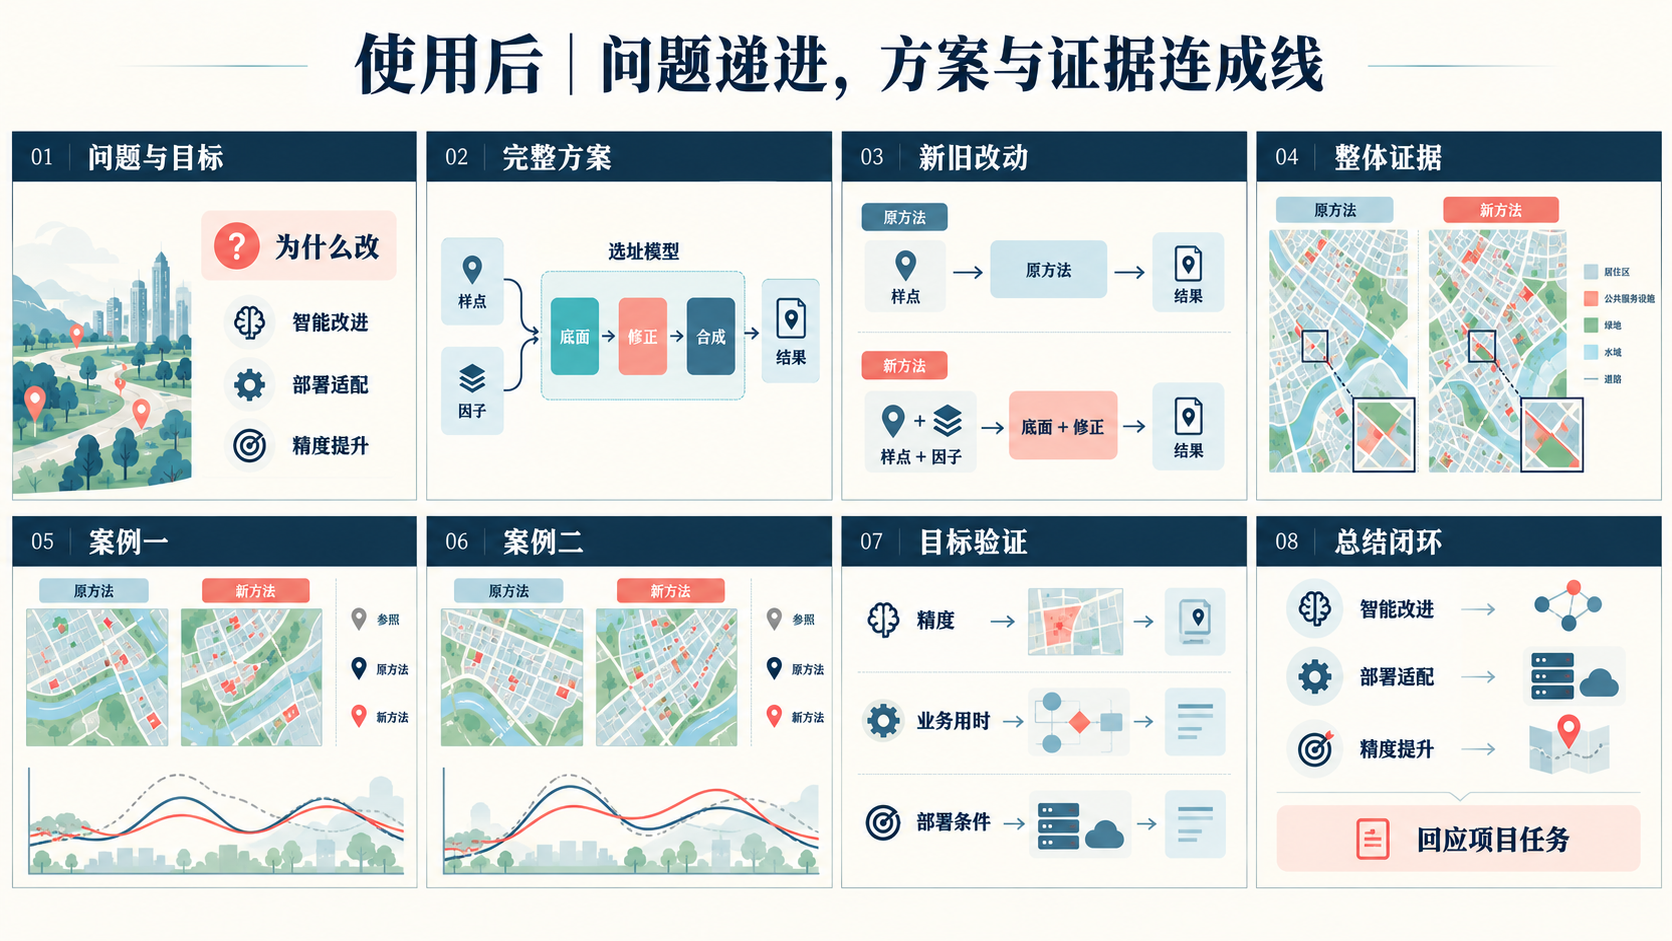
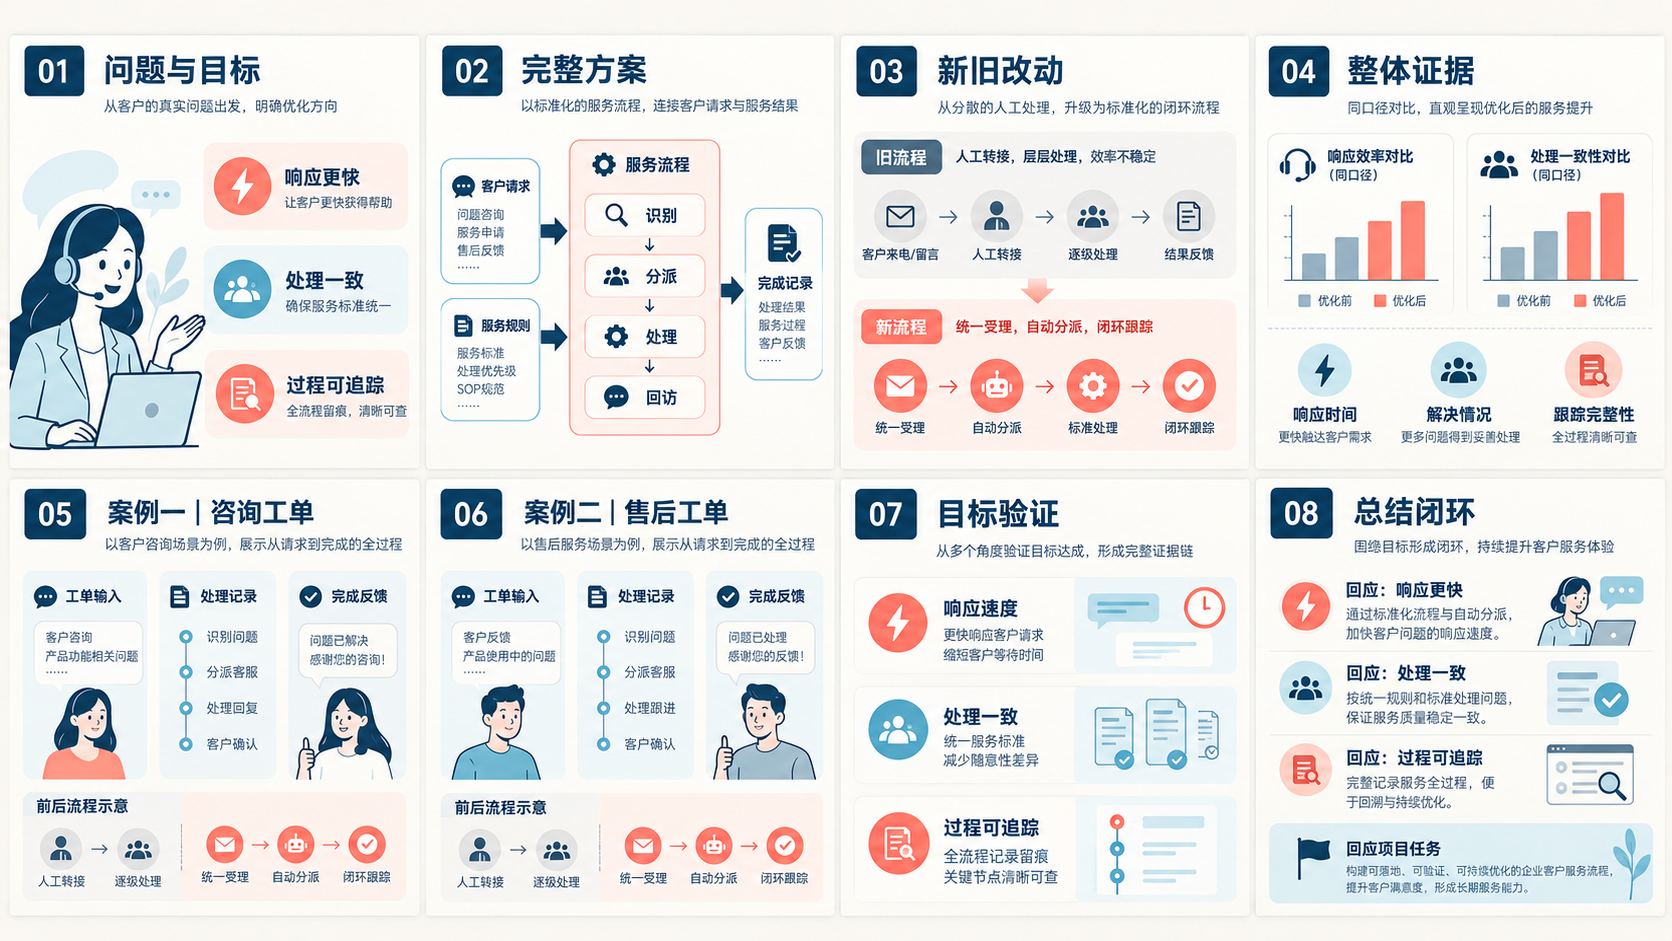
Use fictional customer-service visuals for public examples

diff --git a/assets/hero-prompt.md b/assets/hero-prompt.md
@@ -1,5 +1,5 @@
-# README cover generation
+# README 横幅生成说明
 
-Generated with the built-in imagegen tool on 2026-10-18.
+为GitHub开源Codex Skill project-report-ppt生成一张精致的2:1横幅。奶油白背景，深藏青#12354A主色，淡青#D9EEF0与柔珊瑚#F58578点缀，中文准确优雅，现代编辑式排版。只谈通用项目汇报，不含任何地理、地图、空间、价格、地价、评估、山脉或真实项目。左上小字“project-report-ppt”，主标题“项目汇报，先讲清逻辑”，副标题“把材料组织成听众能理解的完整故事”。下方六个由纤细连续箭头连接的简洁阶段模块，依次“问题与目标”“完整方案”“改动与依据”“整体证据”“典型案例”“总结闭环”，图标分别为问号、流程图、对比文档、柱图、两张相同工单卡、勾选清单。右上放纸张与演示屏抽象组合，轻微柔和阴影，留白充足，避免3D炫光，没有任何具体客户、项目、真实数字或照片。底部小字“用于项目汇报的内容规划与逻辑审查”。完整中文海报成品，无水印。
 
-Prompt: Create a premium editorial GitHub README hero for project-report-ppt, wide 2:1, ivory background, navy typography, restrained teal and coral. Main title: 项目汇报，先讲清逻辑. Subtitle: 让听众顺着问题理解方案，再用证据建立信心. Show six legible stations with uninterrupted arrows: 问题与目标 → 总体方案 → 改动与原理 → 整体证据 → 典型案例 → 总结闭环. Use refined line icons, generous whitespace, subtle contour texture, no invented statistics or logos.
+配图为通用流程示意，不使用任何真实客户项目素材。
